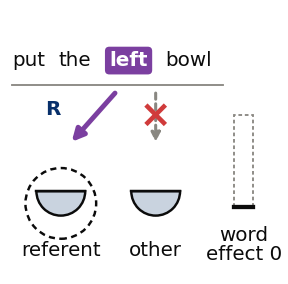
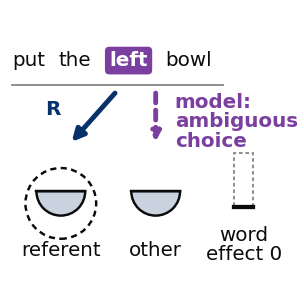
figs (b): fig_arch left VLM not frozen (released weights), F7 cue colours

diff --git a/experiments/fig_arch.py b/experiments/fig_arch.py
@@ -55,11 +55,11 @@ def panel(ax, X0, right):
     ar((RX, 0.43), (NX + NW + 0.05, 0.43), color=S.GREYINK, lw=0.8, ls=(0, (2, 2)), head=5)
     S.cross(ax, (X0 + NX + NW + 0.12, 0.43), size=0.035, lw=1.2, color=S.GREYINK)
     # SigLIP
-    bx(NX + NW - LW, 1.02, LW, 0.18, "SigLIP", "frozen")
+    bx(NX + NW - LW, 1.02, LW, 0.18, "SigLIP", "frozen" if right else "released")
     # VLM prefix
-    bx(NX, 1.30, NW, 0.62, "", "frozen")
+    bx(NX, 1.30, NW, 0.62, "", "frozen" if right else "released")
     txt(ax, X0 + cx, 1.76, "VLM prefix", weight="bold")
-    txt(ax, X0 + cx, 1.52, "18 layers, frozen\n+ language tokens")
+    txt(ax, X0 + cx, 1.52, "18 layers, frozen\n+ language tokens" if right else "18 layers\n+ language tokens")
     # action expert
     bx(NX, 2.24, NW, 0.52, "", "expert")
     txt(ax, X0 + cx, 2.62, "action expert", weight="bold")
@@ -144,11 +144,12 @@ def main():
     rend = fig.canvas.get_renderer()
     ly, x = 0.08, 0.10
 
-    def adv(t, pad=0.14):
+    def adv(t, pad=0.07):
         bb = t.get_window_extent(rend).transformed(ax.transData.inverted())
         return bb.x1 + pad
 
-    for lab, kind in (("frozen weights", "frozen"), ("trained expert", "expert"), ("new module", "new")):
+    for lab, kind in (("frozen weights", "frozen"), ("released weights", "released"), ("trained expert", "expert"),
+                      ("new module", "new")):
         S.box(ax, (x, ly - 0.06), 0.20, 0.13, "", kind)
         x = adv(txt(ax, x + 0.25, ly, lab, ha="left"))
     tag(ax, x + 0.08, ly, "F")

diff --git a/experiments/fig_cues.py b/experiments/fig_cues.py
@@ -159,11 +159,11 @@ def _f7(ax, compact):
     _bowl(ax, 0.55, 0.30, r=0.09)
     _t(ax, 0.20, 0.10, "referent")
     _t(ax, 0.55, 0.10, "other")
-    _arr(ax, (0.40, 0.68), (0.24, 0.50), color=S.CUE, lw=1.6, head=8)
+    _arr(ax, (0.40, 0.68), (0.24, 0.50), color=S.NAVY, lw=1.6, head=8)
     _t(ax, 0.17, 0.62, "R", color=S.NAVY, weight="bold")
-    _arr(ax, (0.55, 0.68), (0.55, 0.50), color=S.GREYINK, lw=1.0, ls=(0, (2, 1.5)))
-    S.cross(ax, (0.55, 0.60), size=0.03, lw=1.5)
-    ax.add_patch(Rectangle((0.84, 0.26), 0.07, 0.34, fc="none", ec=S.GREYINK, lw=0.6, ls=(0, (2, 1.5))))
+    _arr(ax, (0.55, 0.68), (0.55, 0.50), color=S.CUE, lw=1.6, ls=(0, (2, 1.5)))
+    _t(ax, 0.62, 0.575, "model:\nambiguous\nchoice", color=S.CUE, weight="bold", ha="left")
+    ax.add_patch(Rectangle((0.84, 0.26), 0.07, 0.20, fc="none", ec=S.GREYINK, lw=0.6, ls=(0, (2, 1.5))))
     ax.plot([0.84, 0.91], [0.26, 0.26], color=S.INK, lw=1.4)
     _t(ax, 0.875, 0.12, "word\neffect 0")
 

diff --git a/experiments/fig_style.py b/experiments/fig_style.py
@@ -116,6 +116,7 @@ _KINDS = {  # kind: (facecolor, edgecolor, linewidth, linestyle)
     "frozen": (FROZEN, GREYINK, 0.8, "-"),
     "expert": (EXPERT, NAVY, 0.8, "-"),
     "new": ("white", NAVY, 1.4, "-"),
+    "released": ("#efe6d2", GREYINK, 0.8, "-"),
     "plain": ("white", GREYINK, 0.8, "-"),
     "input": ("white", GREYINK, 0.8, "-"),
     "ghost": ("white", GREYINK, 0.8, (0, (2, 2))),
